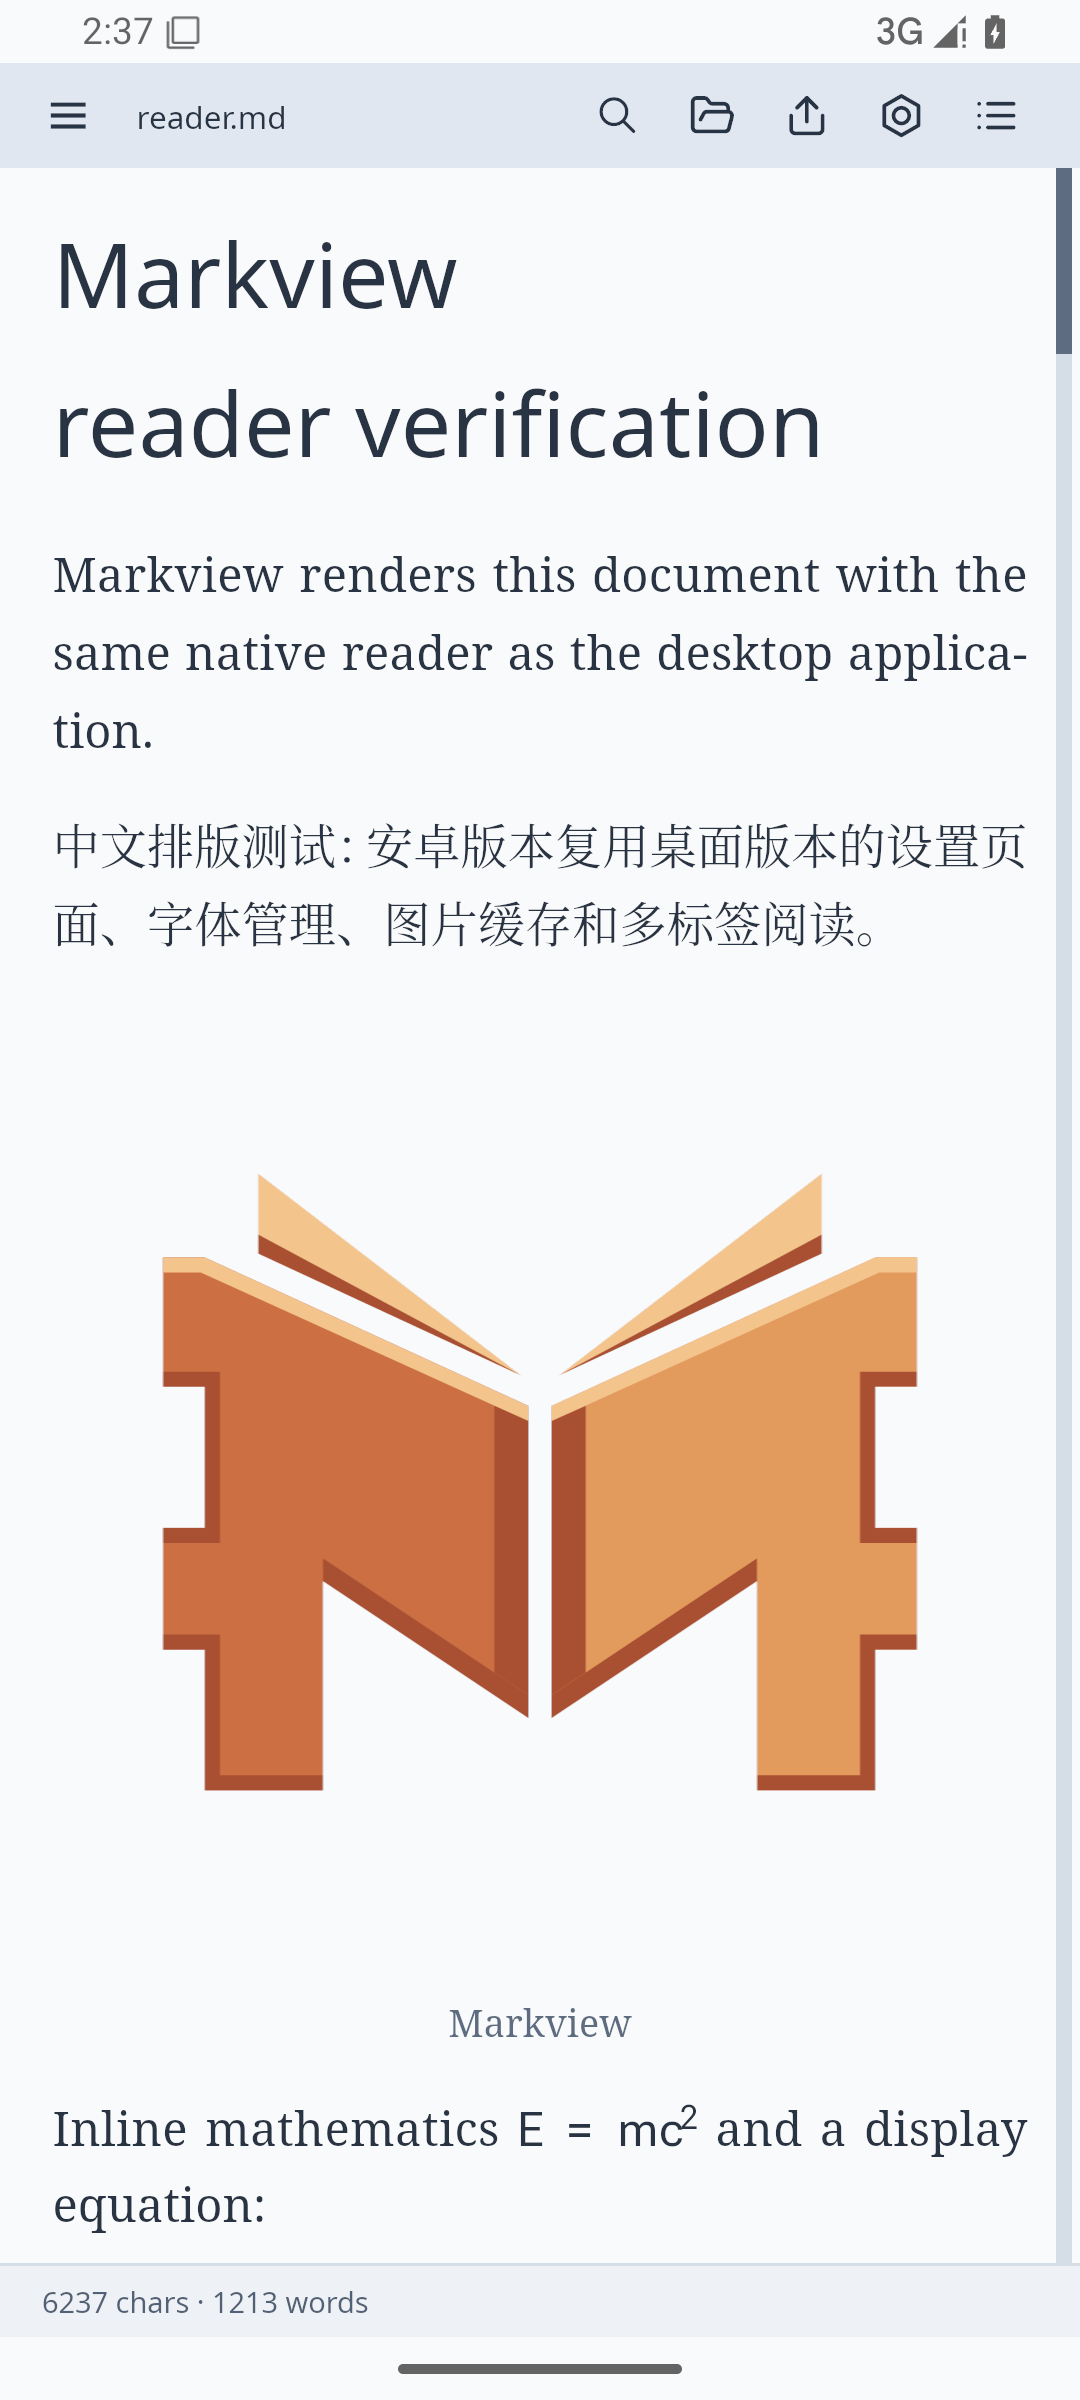
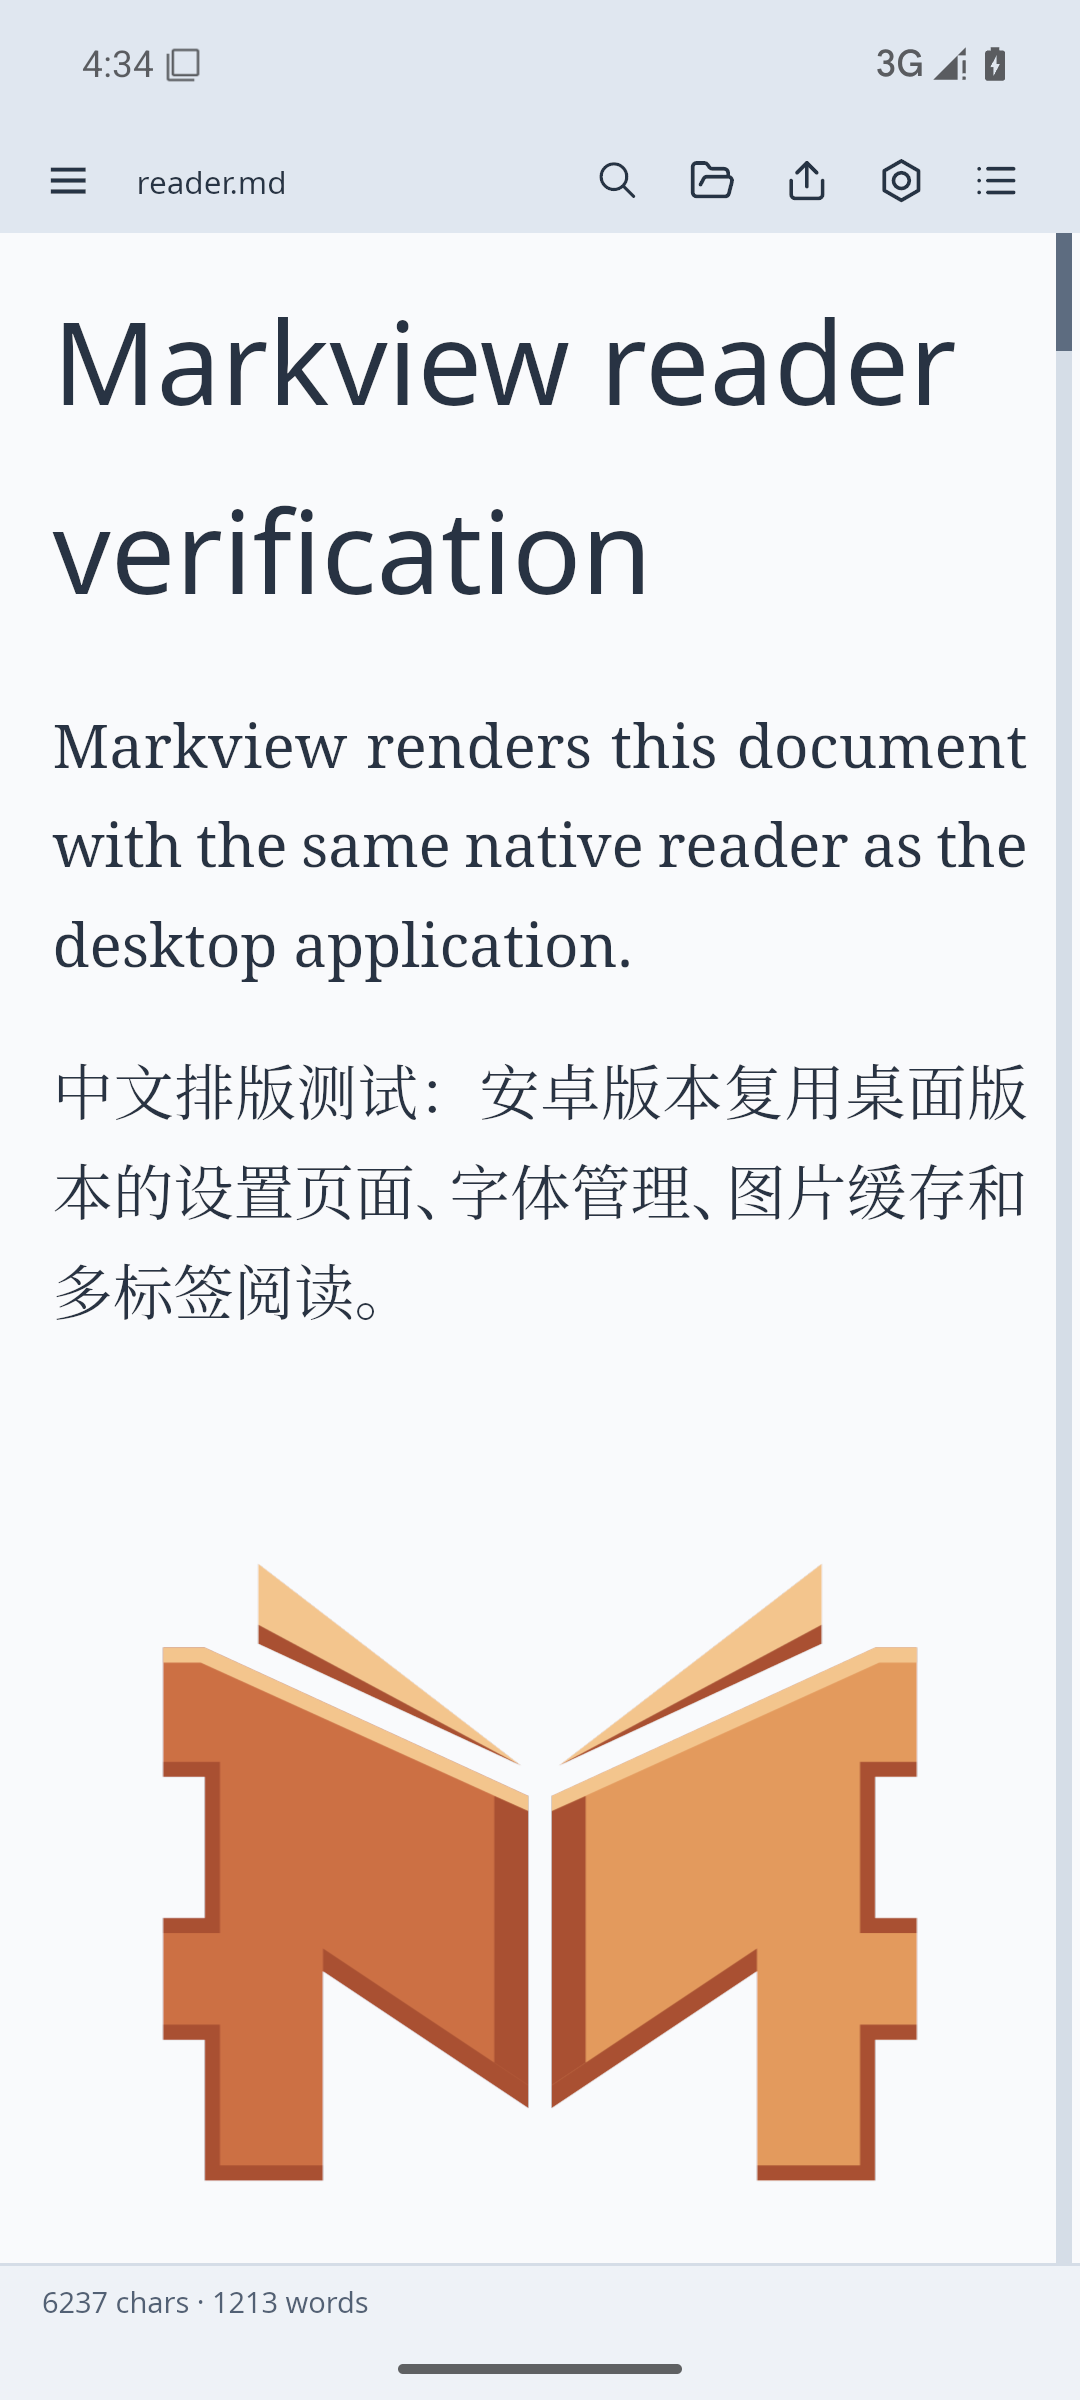
fix: blend android system bars into reader chrome

diff --git a/android/tests/io/github/szdytom/markview/Smoke.java b/android/tests/io/github/szdytom/markview/Smoke.java
@@ -39,7 +39,7 @@ public class Smoke extends Instrumentation {
             File config = new File(getTargetContext().getFilesDir(), "markview/settings.toml");
             config.getParentFile().mkdirs();
             String stored = config.exists() ? new String(Files.readAllBytes(config.toPath()), StandardCharsets.UTF_8) : "";
-            stored = "window-layout = \"macos\"\nsingle-instance = true\nwidth = 240\n" + stored.replaceAll("(?m)^(window-layout|single-instance|width) *=.*\\R?", "");
+            stored = "window-layout = \"macos\"\nsingle-instance = true\nwidth = 240\nstyle = [\"light\"]\n" + stored.replaceAll("(?m)^(window-layout|single-instance|width|style) *=.*\\R?", "");
             Files.write(config.toPath(), stored.getBytes(StandardCharsets.UTF_8));
             getUiAutomation().setRotation(0);
             activity = startActivitySync(intent("reader.md", Intent.ACTION_VIEW));
@@ -93,6 +93,7 @@ public class Smoke extends Instrumentation {
             require(initial.getString("backend").equals("Vulkan") || initial.getString("backend").equals("Gl"), "GPU backend");
             stableLayout();
             screenshot("reader");
+            checkSystemBars(true);
             swipe(280, 180, 100, 180);
             waitFor(s -> s.optBoolean("outline_open"));
             swipe(280, 180, 100, 180);
@@ -171,6 +172,8 @@ public class Smoke extends Instrumentation {
             sendKeyDownUpSync(KeyEvent.KEYCODE_BACK);
             waitFor(s -> s.optString("panel").equals("Closed"));
             require(!state().getBoolean("instance_listener"), "Android does not register the desktop instance listener");
+            screenshot("dark-reader");
+            checkSystemBars(false);
             pass("Shared settings, typography, font catalogue and styles without desktop file controls");
 
             tap("SearchOpen");
@@ -528,6 +531,31 @@ public class Smoke extends Instrumentation {
         JSONArray images = state.getJSONArray("images");
         for (int i = 0; i < images.length(); i++) if (!images.getJSONObject(i).isNull("size")) count++;
         return count;
+    }
+    private void checkSystemBars(boolean light) throws Exception {
+        JSONObject current = state();
+        double scale = current.getJSONArray("dimensions").getDouble(2);
+        int top = (int)Math.round(current.getJSONArray("insets").getDouble(1) * scale);
+        int bottom = top + (int)Math.round(current.getJSONArray("dimensions").getDouble(1) * scale);
+        SystemClock.sleep(250);
+        Bitmap pixels = getUiAutomation().takeScreenshot();
+        require(pixels != null, "System bar screenshot");
+        try {
+            int x = pixels.getWidth() / 8;
+            if (top > 4) {
+                int middle = pixels.getWidth() / 2;
+                require(sameColor(pixels.getPixel(middle, top / 2), pixels.getPixel(middle, top + 2)), "Status bar blends into the toolbar");
+            }
+            if (bottom + 4 < pixels.getHeight()) {
+                require(sameColor(pixels.getPixel(x, bottom - 2), pixels.getPixel(x, (bottom + pixels.getHeight()) / 2)), "Navigation bar blends into the footer");
+            }
+            int background = pixels.getPixel(x, bottom - 2);
+            require((Color.red(background) + Color.green(background) + Color.blue(background) > 384) == light, "System bars follow the selected style");
+        } finally { pixels.recycle(); }
+        pass((light ? "Light" : "Dark") + " system bars blend into reader chrome");
+    }
+    private boolean sameColor(int a, int b) {
+        return Math.abs(Color.red(a) - Color.red(b)) <= 2 && Math.abs(Color.green(a) - Color.green(b)) <= 2 && Math.abs(Color.blue(a) - Color.blue(b)) <= 2;
     }
     private void screenshot(String name) throws Exception {
         SystemClock.sleep(250);

diff --git a/src/app/ui.rs b/src/app/ui.rs
@@ -284,6 +284,31 @@ impl<P: super::SendEvent> App<P> {
 		let mut chrome = self.chrome();
 		chrome.input_draws = inputs;
 		out.extend(chrome.overlay());
+		#[cfg(target_os = "android")]
+		{
+			use crate::layout::{Paint, Rect};
+			use markview_core::style::{ColorField, Condition};
+			let (width, height, _) = self.dimensions();
+			let [left, top, right, bottom] = self.insets();
+			// Extend the chrome behind system bars without moving its controls.
+			for (x, y, w, h, condition) in [
+				(-left, -top, width + left + right, top, Condition::Toolbar),
+				(
+					-left,
+					height,
+					width + left + right,
+					bottom,
+					Condition::Statusbar,
+				),
+				(-left, 0.0, left, height, Condition::Toolbar),
+				(width, 0.0, right, height, Condition::Toolbar),
+			] {
+				out.push(Draw::Rect(
+					Rect { x, y, w, h },
+					Paint::Styled(condition, ColorField::Background),
+				));
+			}
+		}
 		out
 	}
 	pub(super) fn tab_layout(&mut self) -> super::tab_strip::TabLayout {

diff --git a/android/test.py b/android/test.py
@@ -67,7 +67,7 @@ def main():
     (artifacts / "integration.txt").write_text(report)
     print(report)
     assert result.returncode == 0 and "MARKVIEW_ANDROID_INTEGRATION_OK" in report, "Android integration tests failed"
-    screenshots = ["reader", "settings", "fonts", "font-choices", "dark-styles", "diagnostics", "search", "resumed", "folder"] + (["tab-drawer"] if args.layout == "phone" else ["landscape", "landscape-settings"])
+    screenshots = ["reader", "dark-reader", "settings", "fonts", "font-choices", "dark-styles", "diagnostics", "search", "resumed", "folder"] + (["tab-drawer"] if args.layout == "phone" else ["landscape", "landscape-settings"])
     if args.layout_only:
         screenshots = ["reader", "settings", "layout"] + (["landscape-settings"] if args.layout == "tablet" else [])
     if args.lifecycle_only:

diff --git a/CHANGELOG.md b/CHANGELOG.md
@@ -59,6 +59,7 @@ at the same level, without `[brackets]`.
 
 ### Fixed
 
+- Blend Android system bars into the reader chrome in light and dark styles while keeping controls inside the safe area.
 - Support touchscreen dragging and edge resizing of custom window frames on Linux, using the touch contact's native serial on Wayland.
 - Exit and recreate the Android reader cleanly when its Activity is destroyed, using a pinned winit fork.
 - Reload changed local images after their source files are updated.
